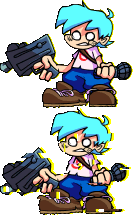
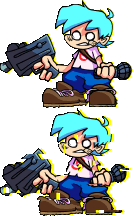
fixi

diff --git a/src/character/bf.c b/src/character/bf.c
@@ -110,20 +110,15 @@ static const CharFrame char_bf_frame[] = {
 	{BF_ArcMain_BF5, {  0,   1, 106, 104}, { 75, 104}}, //19 right miss 1
 	{BF_ArcMain_BF5, {106,   0, 102, 106}, { 74, 105}}, //20 right miss 2
 
-	{BF_ArcMain_Dead0, {  0,   0, 128, 128}, { 53,  98}}, //21 dead0 0
-	{BF_ArcMain_Dead0, {128,   0, 128, 128}, { 53,  98}}, //22 dead0 1
-	{BF_ArcMain_Dead0, {  0, 128, 128, 128}, { 53,  98}}, //23 dead0 2
-	{BF_ArcMain_Dead0, {128, 128, 128, 128}, { 53,  98}}, //24 dead0 3
+	{BF_ArcMain_Dead0, {  0,   0, 133, 108}, { 89,  107}}, //21 dead0 0
+	{BF_ArcMain_Dead0, {  0, 108, 131, 108}, { 85,  107}}, //22 dead0 1
+	{BF_ArcDead_Dead1, {  0,   0, 138, 107}, { 92,  107}}, //23 dead1 0
+	{BF_ArcDead_Dead1, {  0, 107, 138, 108}, { 83,  107}}, //24 dead1 1
 	
-	{BF_ArcDead_Dead1, {  0,   0, 128, 128}, { 53,  98}}, //25 dead1 0
-	{BF_ArcDead_Dead1, {128,   0, 128, 128}, { 53,  98}}, //26 dead1 1
-	{BF_ArcDead_Dead1, {  0, 128, 128, 128}, { 53,  98}}, //27 dead1 2
-	{BF_ArcDead_Dead1, {128, 128, 128, 128}, { 53,  98}}, //28 dead1 3
-	
-	{BF_ArcDead_Dead2, {  0,   0, 128, 128}, { 53,  98}}, //29 dead2 body twitch 0
-	{BF_ArcDead_Dead2, {128,   0, 128, 128}, { 53,  98}}, //30 dead2 body twitch 1
-	{BF_ArcDead_Dead2, {  0, 128, 128, 128}, { 53,  98}}, //31 dead2 balls twitch 0
-	{BF_ArcDead_Dead2, {128, 128, 128, 128}, { 53,  98}}, //32 dead2 balls twitch 1
+	{BF_ArcDead_Dead2, {  0,   0, 128, 128}, { 53,  98}}, //25 dead2 body twitch 0
+	{BF_ArcDead_Dead2, {128,   0, 128, 128}, { 53,  98}}, //26 dead2 body twitch 1
+	{BF_ArcDead_Dead2, {  0, 128, 128, 128}, { 53,  98}}, //27 dead2 balls twitch 0
+	{BF_ArcDead_Dead2, {128, 128, 128, 128}, { 53,  98}}, //28 dead2 balls twitch 1
 };
 
 static const Animation char_bf_anim[PlayerAnim_Max] = {
